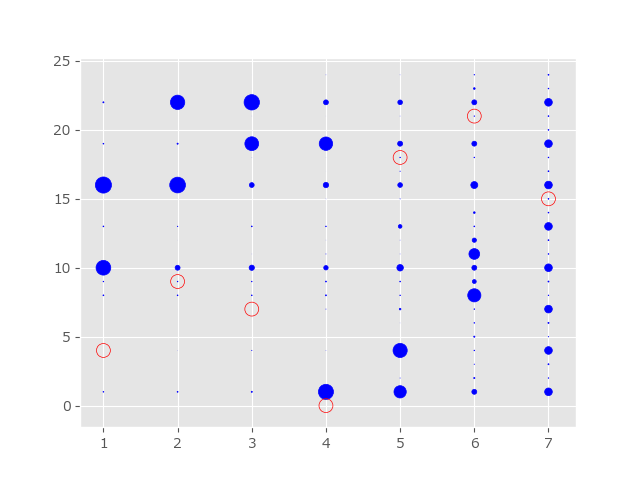
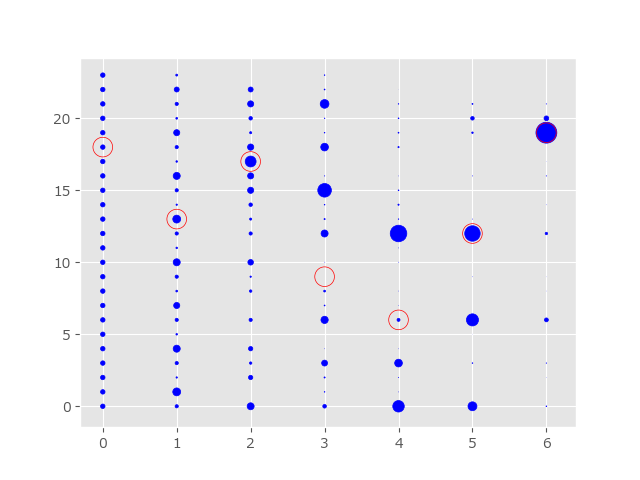
add plots

diff --git a/Plot.py b/Plot.py
@@ -28,13 +28,13 @@ class Plot:
 
     def lineGraphSample(self, p_matrix):
         y = np.log(p_matrix)
-        df = pd.DataFrame(p_matrix[0:10, :])
+        df = pd.DataFrame(p_matrix[0:4, :])
         df.plot(grid=True, linewidth = 0.4, logy=True)
         plt.savefig('./plots/samples/nodes_{}-observation_{}-no_sample_{}.png'.format(self.N, self.observation, self.no_sample))
 
     def scatterObservation(self, p_matrix, true_states):
         plt.clf()
-        for i in range(1, self.observation):
-            plt.scatter(x=[i]*self.N*3, y=np.linspace(1, self.N*3, self.N*3), s=p_matrix[:, i-1]*250, color="blue")
-            plt.scatter(x=i, y=true_states[i-1], s=100, facecolor="none", edgecolors="r")
+        for i in range(0, self.observation-1):
+            plt.scatter(x=[i]*self.N*3, y=np.linspace(0, self.N*3-1, self.N*3), s=p_matrix[:, i]*250, color="blue")
+            plt.scatter(x=i, y=true_states[i], s=200, facecolor="none", edgecolors="r")
         plt.savefig('./plots/scatter/nodes_{}-observation_{}-no_sample_{}.png'.format(self.N, self.observation, self.no_sample))
